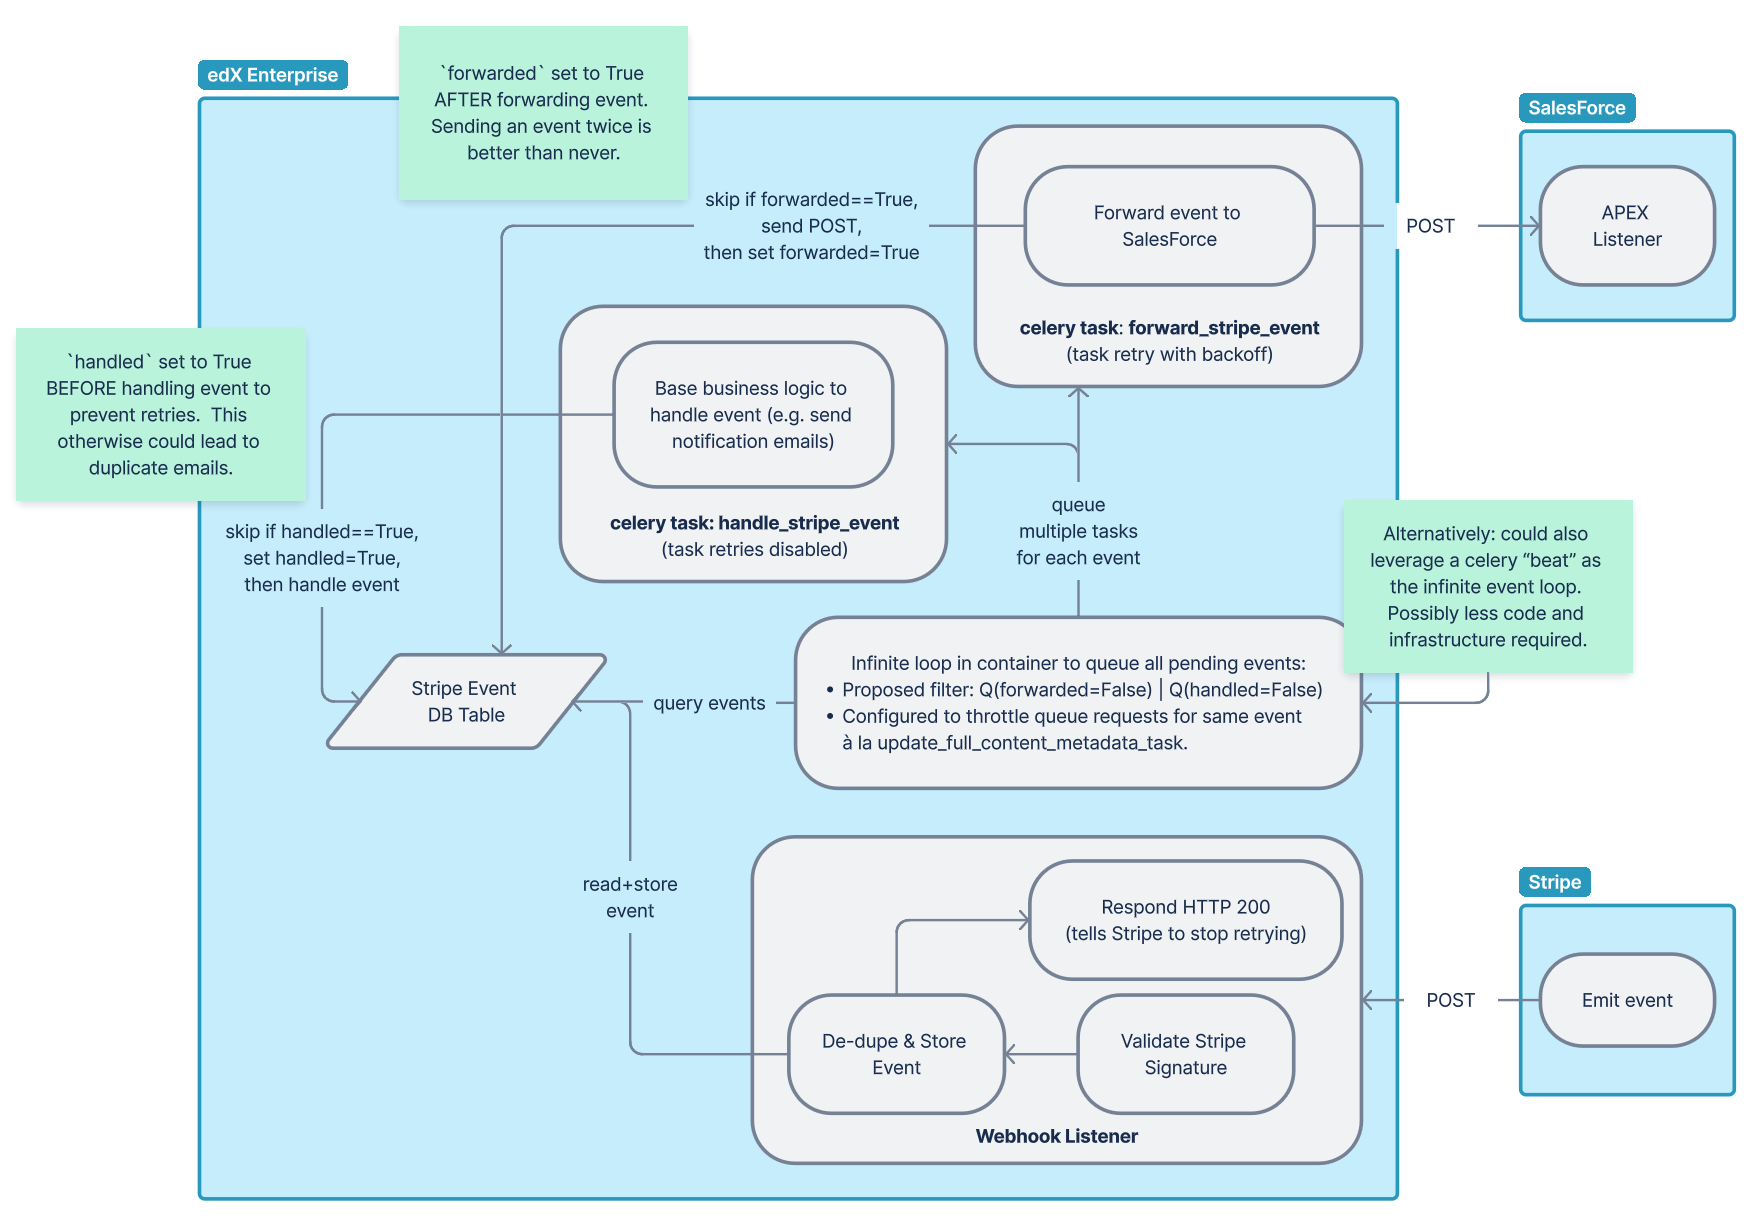
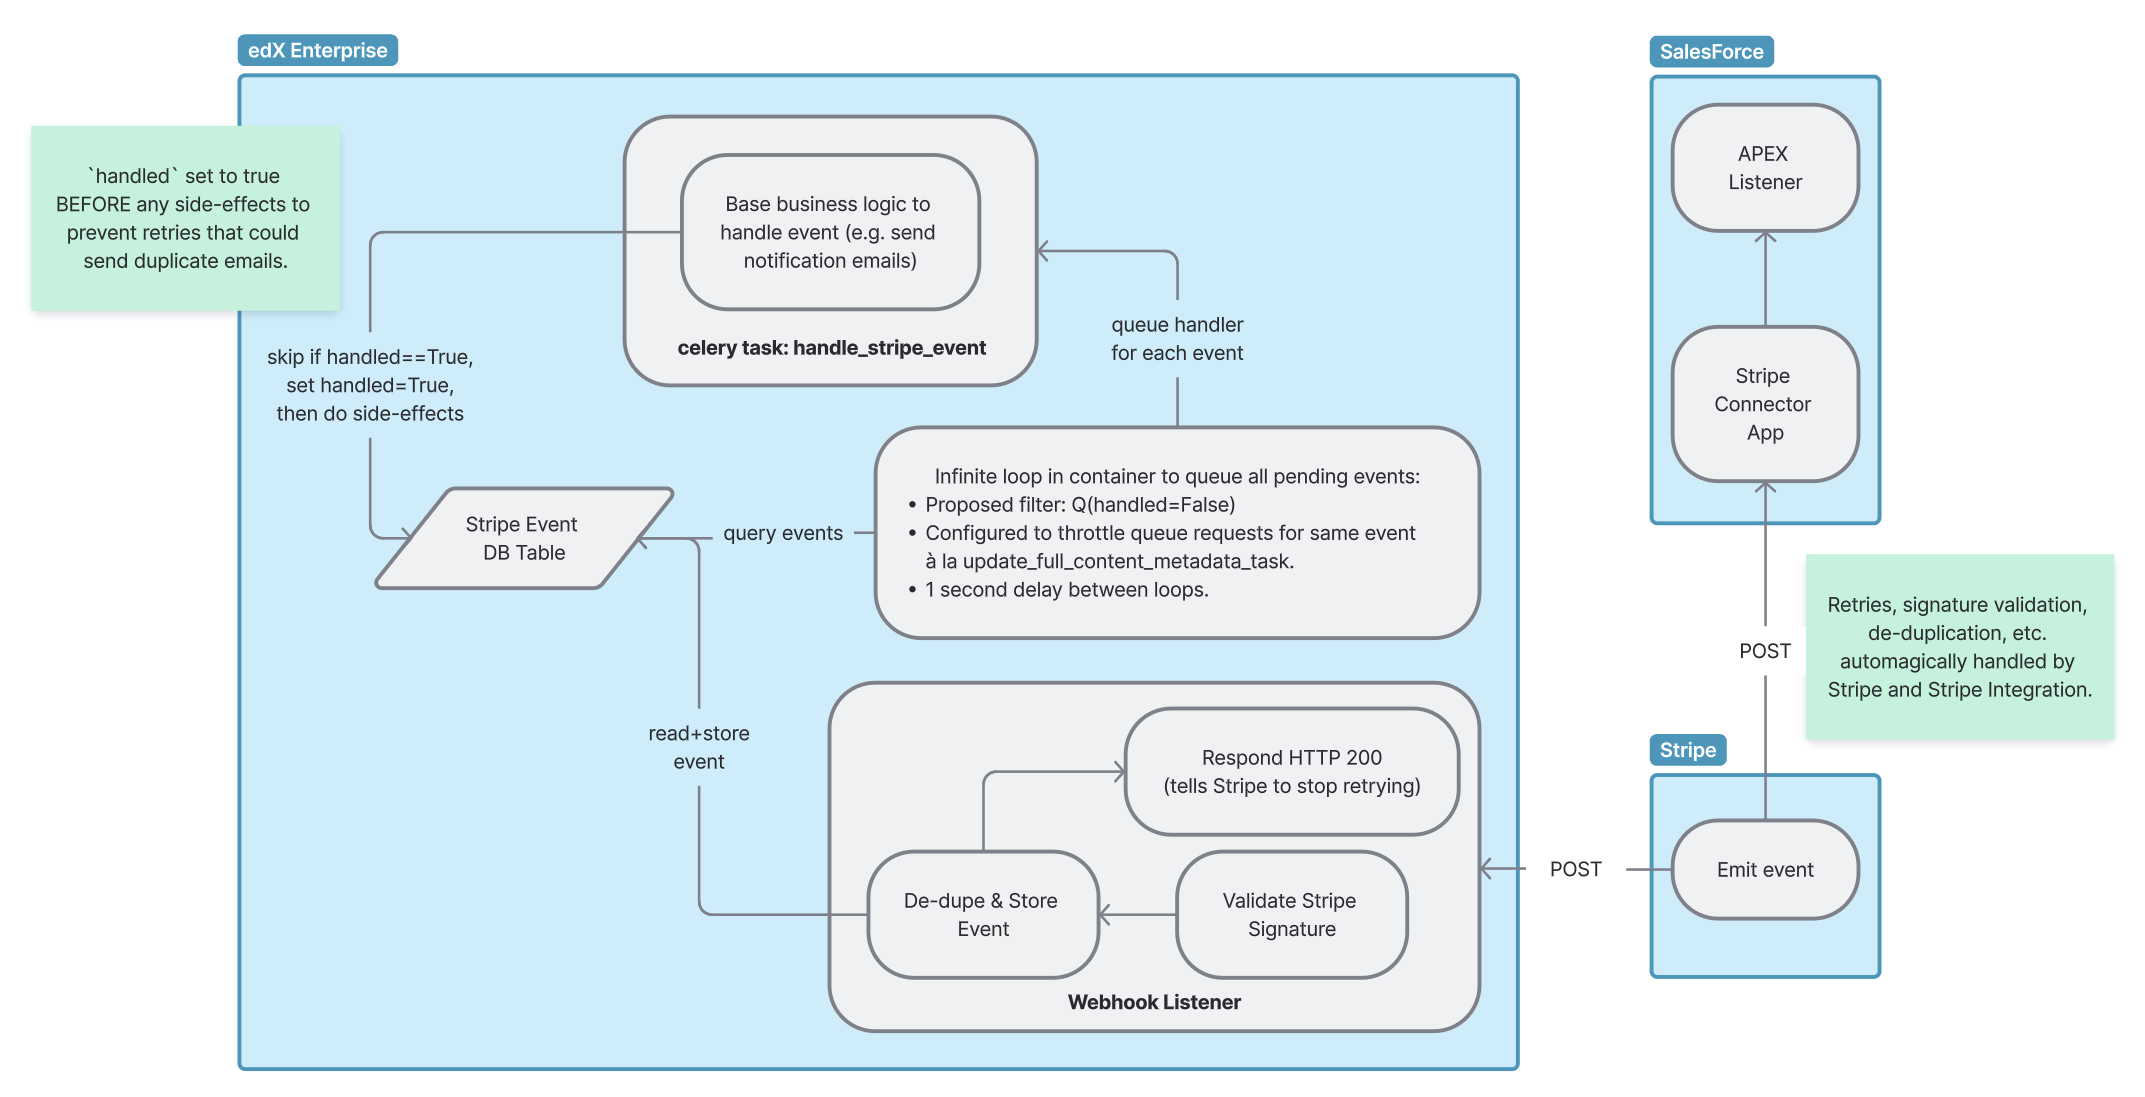
docs: address comments on ADR 0025
ENT-10075

diff --git a/docs/decisions/0025-stripe-event-consumption-delivery.rst b/docs/decisions/0025-stripe-event-consumption-delivery.rst
@@ -10,7 +10,7 @@ Context
 
 We intend to utilize Stripe to manage subscription and payment lifecycles for the Enterprise Self-Service Purchasing
 feature. We will need a robust way to ingest events from Stripe, handle those events, and forward them to SalesForce.
-For example, when stripe emits an ``invoice.paid`` event, that needs to be communicated to SalesForce in order to
+For example, when Stripe emits an ``invoice.paid`` event, that needs to be communicated to SalesForce in order to
 trigger the creation/update of Customers, Opportunities, etc. Furthermore, that same event needs to be communicated to
 our edX Enterprise backend so that we can immediately followup with the customer to confirm that we have begun to
 provision their product.
@@ -23,7 +23,15 @@ At minimum, "robust" means:
 Decision
 ========
 
-The selected solution can be described as having three decoupled parts:
+The selected approach is to configure Stripe to POST two separate WebHook endpoints for every event:
+
+#. POST to a new django view in the edX backend (tentatively enterprise-access).
+#. POST to a custom SalesForce endpoint.
+
+.. image:: ../images/0025-stripe-event-consumption-delivery.png
+
+Architecture of the edX backend WebHook endpoint
+------------------------------------------------
 
 #. **Ingest:** Implement a new webhook endpoint in the edX Enterprise backend.
 
@@ -41,31 +49,40 @@ The selected solution can be described as having three decoupled parts:
 
    * Architecturally, this is an infinite loop via management command running in a dedicated container/pod.
 
-     * Alternatively, this might work as a Celery "beat" scheduled for every 10 seconds.  This could reduce
-       code/infrastructure requirements.
-
    * Ingested events which have not been handled will cause ``handle_stripe_event`` tasks to be queued.
-
-   * Ingested events which have not been forwarded will cause ``forward_stripe_event`` tasks to be queued.
 
    * In order to give celery time to handle the event without sacrificing loop frequency, throttle queue requests for a
      given event ID by checking the TaskResult table just like `how we throttle tasks in enterprise-catalog
      <https://github.com/openedx/enterprise-catalog/blob/01f5367309ee25093e414b0fd3498a48ec575073/enterprise_catalog/apps/api/tasks.py#L134>`_.
+     A recent TaskResult record for a given event is like a lock that prevents the same event from re-queuing.
 
-   * A suggestion on scheduling order: In case multiple events for the same customer are pending, we should make a best
-     effort to chain the task requests for a given customer (Celery tasks can be natively chained). Handling or
-     forwarding events out of order for a given customer would probably expose weird corner cases.
+   * Scheduling order: In case multiple events for the same customer are pending, we should make a best effort to chain
+     the task requests for a given customer (Celery tasks can be natively chained). Handling events out of order for a
+     given customer could expose weird corner cases.
 
-#. **Handle:** Implement two celery tasks: one to handle an event and another to forward an event to SalesForce.
+#. **Handle:** Implement a celery task to "handle" an event.
 
-   * "Handling" and "forwarding" an event is bifurcated into separate celery tasks in order to have tighter control over
-     retry and different sensitivities to duplicate invocations.
+   * The handler task should mark the event has handled by setting the ``handled`` boolean on the event record to ``true``.
 
-     * Handling an event: This is primarily for one-time communications. This should happen only once, and not trigger a retry.
+   * Behavior will differ based on the event type received.
 
-     * Forwarding an event: The receiver should be designed to handle duplicates, so we can eagerly retry.
+Architecture of the SalesForce WebHook endpoint
+-----------------------------------------------
 
-.. image:: ../images/0025-stripe-event-consumption-delivery.png
+This endpoint will be provided by the `Stripe Connector App
+<https://docs.stripe.com/plugins/stripe-connector-for-salesforce/installation-guide>`_ to directly ingest Stripe events
+within SalesForce.
+
+SalesForce Engineers will then need to trigger custom APEX code (or other automation) to handle `invoice.paid` and other
+events. As a SOQL query, recent `invoice.paid` events can be fetched like this::
+
+  select CreatedDate,
+         stripeGC__Request_Body__c
+  from stripeGC__Stripe_Event__c
+  where stripeGC__Event_Name__c = 'invoice.paid'
+    and stripeGC__Is_Live_Mode__c = true
+  order by CreatedDate desc
+  limit 10
 
 Alternatives Considered
 =======================
@@ -77,32 +94,40 @@ Rejected
 
   * This is too sensitive to errors during ingestion, which could result in dropped events.
 
-* Use a k8s ``cronjob`` to schedule the picker component.
+* Use a k8s ``cronjob`` to perform the "Pick" role (infinite loop).
 
   * This was okay, but cronjobs have a minimum frequency of minutely, which could add an uncomfortable amount of delay.
 
-In Consideration
-================
+* Use a Celery "beat" to perform the "Pick" role (infinite loop) using a 1-second period.
 
-* Utilize the `Stripe Connector App
-  <https://docs.stripe.com/plugins/stripe-connector-for-salesforce/installation-guide>`_ to directly send stripe events
-  to SalesForce.
+  * The beats scheduler is configured by default to wake up every 5 seconds, resulting in a minimum scheduling period of
+    5 seconds.  We do really need 1 second. Theoretically we could reconfigure it to wake up every second.
 
-  * Pros:
+  * It's unclear from documentation what happens if beats start taking longer than the configured period.
 
-    * Don't have to write SalesForce APEX code to validate/de-duplicate events.
+  * I thought maybe this could save us time setting up infrastructure when compared with a dedicated picker, but it
+    turns out celery beats don't just magically run inside an existing worker. They actually need to run inside their
+    own dedicated container.
 
-    * Less sensitive to downtime in our event pipeline.
+* We considered making the edX backend an intermediary for Stripe events bound for SalesForce.
 
-  * Cons:
+  * This was ultimately rejected on the basis of the Stripe Connector App giving us just enough features to tip the
+    cost/benefit balance.
 
-    * More set-up inside the SalesForce WebUI.
+  * By acting as intermediary, we would need to implement all of the following additional features in-house:
 
-    * Slightly worse observability of delivered events (for DD alerting purposes).
+    * Provision SalesForce endpoints to act as WebHook listeners.
 
-    * Costs money?  I'm not sure what's meant by "$1/company/one-time payment".
+    * Write APEX handlers to validate stripe event signatures, de-duplicate events sent multiple times on accident, and
+      write events to a table.
+
+    * Write a "forwarding" handler task within the edX Enterprise backend to reliably POST and retry POSTing events to
+      SalesForce.
 
 Consequences
 ============
 
-TODO
+I haven't quite figured out how to easily monitor event deliveries via the SalesForce Connector App in a way that can be
+alerted via DataDog. **Open Question**: If we integrated DataDog into SalesForce, could we monitor any of these `event types
+<https://developer.salesforce.com/docs/atlas.en-us.object_reference.meta/object_reference/sforce_api_objects_eventlogfile_supportedeventtypes.htm>`_
+to count APEX executions?
